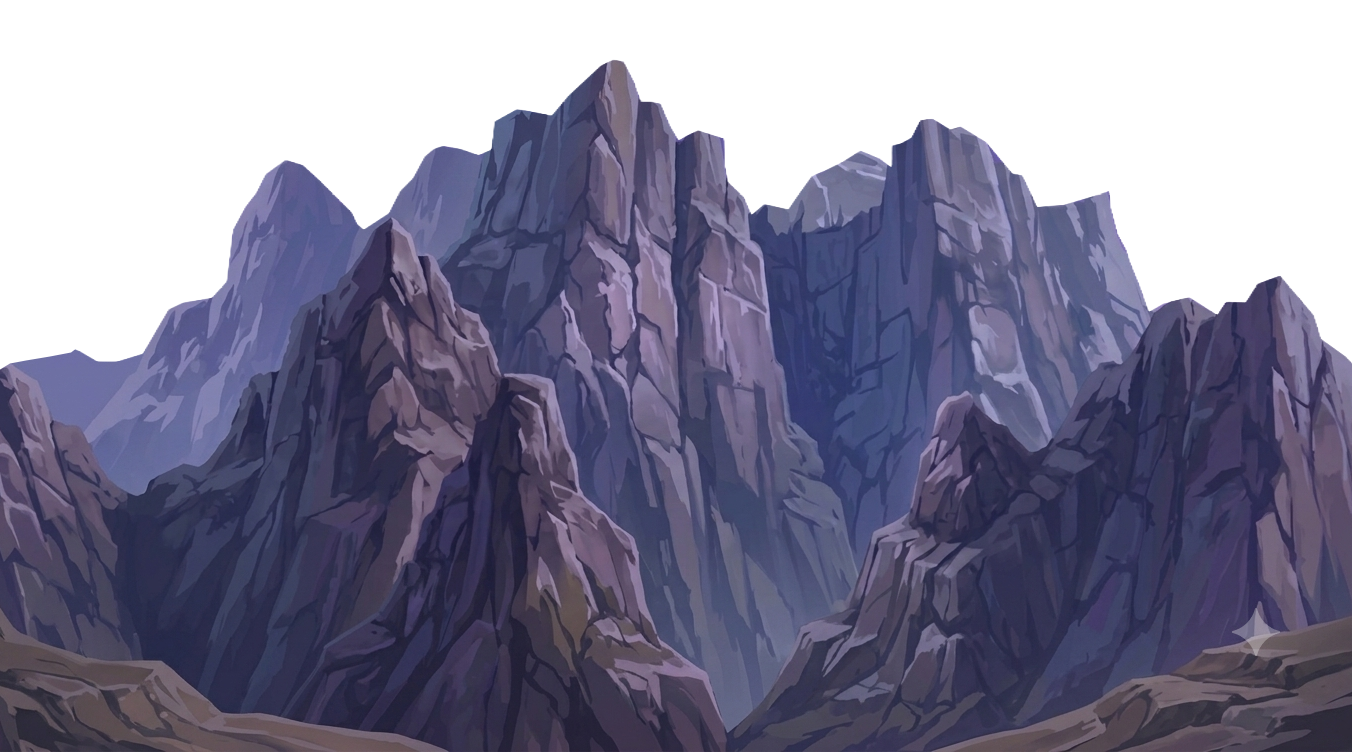
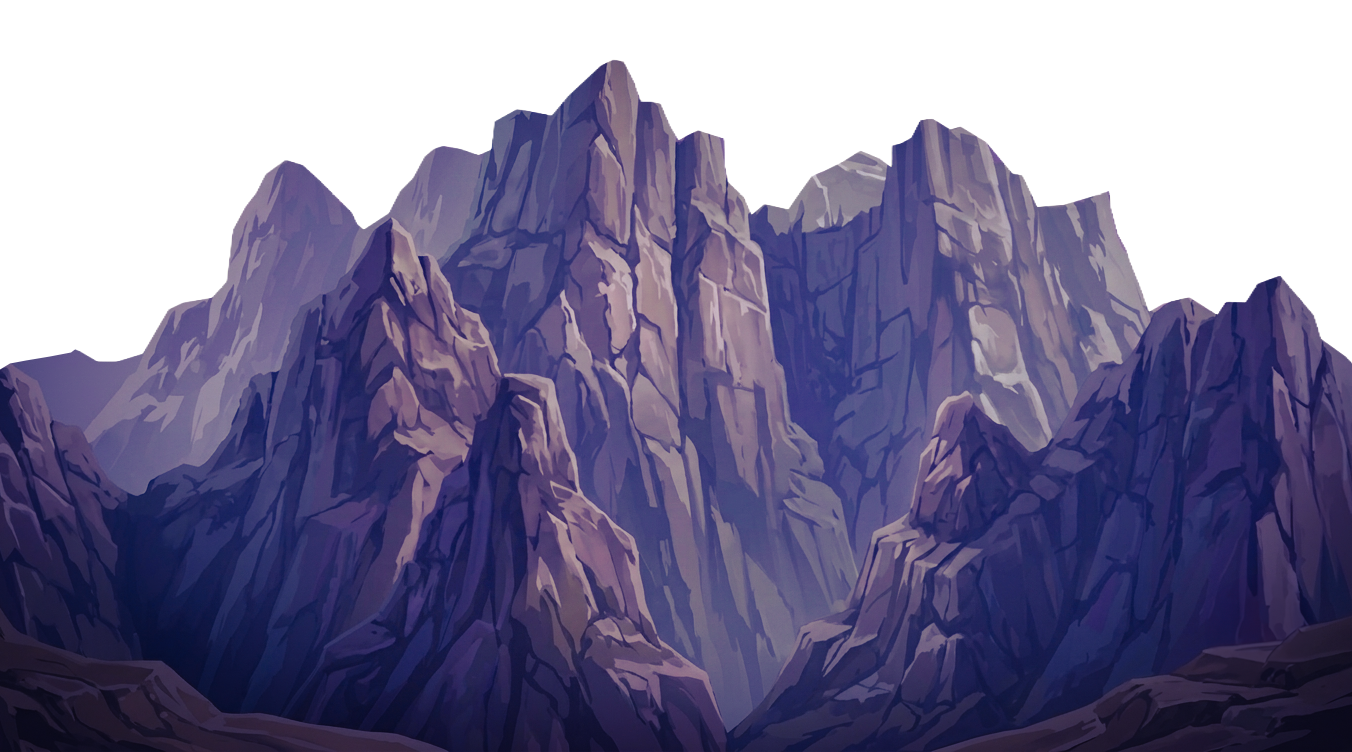
backup

Changed region(s): [[0.0, 0.367, 1.0, 1.0], [0.2175, 0.2447, 0.6524, 0.7646], [0.6524, 0.3976, 0.7766, 0.7035]]

diff --git a/Assets/Prefabs/Player/Scripts/PlayerHealth.cs b/Assets/Prefabs/Player/Scripts/PlayerHealth.cs
@@ -11,6 +11,15 @@ public class PlayerHealth : MonoBehaviour
     public float knockbackForce = 10f;
     public float knockbackDuration = 0.15f;
 
+    [Header("Guard Slide")]
+    [Tooltip("How far the player slides back when blocking an attack.")]
+    public float guardSlideForce = 7f;
+    [Tooltip("How long the guard slide lasts.")]
+    public float guardSlideDuration = 0.2f;
+    [Tooltip("Damage reduction while blocking (0 = no damage, 0.5 = half damage, 1 = full damage).")]
+    [Range(0f, 1f)]
+    public float blockDamageReduction = 0f;
+
     [Header("Flash Effect")]
     public SpriteRenderer spriteRenderer;
     public float flashDuration = 0.1f;
@@ -21,6 +30,7 @@ public class PlayerHealth : MonoBehaviour
 
     private Rigidbody2D rb;
     private Animator animator;
+    private PlayerState state;
     private bool isKnocked;
     private bool isDead;
 
@@ -29,6 +39,7 @@ public class PlayerHealth : MonoBehaviour
         currentHealth = maxHealth;
         rb            = GetComponent<Rigidbody2D>();
         animator      = GetComponentInChildren<Animator>();
+        state         = GetComponent<PlayerState>();
 
         if (spriteRenderer == null)
             spriteRenderer = GetComponentInChildren<SpriteRenderer>();
@@ -49,6 +60,36 @@ public class PlayerHealth : MonoBehaviour
         if (isKnocked) return;
         if (isDead) return;
 
+        // ── GUARD SLIDE: blocking any attack ──
+        if (state != null && (state.isBlocking || state.isCrouchBlocking))
+        {
+            // Reduced damage while blocking (default 0 = no damage)
+            int blockedDamage = Mathf.RoundToInt(damage * blockDamageReduction);
+            if (blockedDamage > 0)
+            {
+                currentHealth -= blockedDamage;
+                if (HealthUI.Instance != null)
+                    HealthUI.Instance.UpdateHealth(currentHealth, maxHealth);
+            }
+
+            // Slide backward away from the attacker
+            if (rb != null)
+                StartCoroutine(GuardSlide(hitDirection));
+
+            // Small camera shake on block (lighter than a real hit)
+            if (CameraShake.Instance != null)
+                CameraShake.Instance.Shake(0.08f, 0.1f);
+
+            // Block flash — white instead of red
+            StartCoroutine(BlockFlash());
+
+            if (currentHealth <= 0)
+                Die();
+
+            return; // Don't apply normal damage/knockback/hurt animation
+        }
+
+        // ── NORMAL HIT (not blocking) ──
         currentHealth -= damage;
         Debug.Log("Player Hit! Health: " + currentHealth);
 
@@ -74,25 +115,40 @@ public class PlayerHealth : MonoBehaviour
     {
         if (animator == null) return;
 
-        // Determine if hit came from above or below the chest
-        // hitDirection.y > 0 means enemy hit upward (player was hit from below/middle)
-        // hitDirection.y < 0 means hit came downward (upper body hit like Stalker laser)
-        // We also check the chest world Y as fallback
+        bool isUpperHit = hitDirection.y < 0f;
 
-        bool isUpperHit = hitDirection.y < 0f; // downward force = upper body hit
-
-        // If hitDirection is mostly horizontal (like Prowler leap),
-        // use ChestPoint Y to decide based on enemy position
         if (Mathf.Abs(hitDirection.y) < 0.3f && chestPoint != null)
-        {
-            // Horizontal hit — Prowler is ground level so it's always middle
             isUpperHit = false;
-        }
 
         if (isUpperHit)
             animator.SetTrigger("upperHurt");
         else
             animator.SetTrigger("middleHurt");
+    }
+
+    IEnumerator GuardSlide(Vector2 hitDirection)
+    {
+        isKnocked = true;
+
+        // Slide AWAY from the hit source (opposite of hit direction)
+        float slideDir = hitDirection.x >= 0f ? -1f : 1f;
+
+        rb.linearVelocity = new Vector2(slideDir * guardSlideForce, 0f);
+
+        float elapsed = 0f;
+        while (elapsed < guardSlideDuration)
+        {
+            // Decelerate smoothly over the slide duration
+            float t = elapsed / guardSlideDuration;
+            float speed = Mathf.Lerp(guardSlideForce, 0f, t);
+            rb.linearVelocity = new Vector2(slideDir * speed, rb.linearVelocity.y);
+
+            elapsed += Time.deltaTime;
+            yield return null;
+        }
+
+        rb.linearVelocity = new Vector2(0f, rb.linearVelocity.y);
+        isKnocked = false;
     }
 
     IEnumerator ApplyKnockback(Vector2 dir)
@@ -109,6 +165,14 @@ public class PlayerHealth : MonoBehaviour
         if (spriteRenderer == null) yield break;
         spriteRenderer.color = Color.red;
         yield return new WaitForSeconds(flashDuration);
+        spriteRenderer.color = Color.white;
+    }
+
+    IEnumerator BlockFlash()
+    {
+        if (spriteRenderer == null) yield break;
+        spriteRenderer.color = new Color(0.8f, 0.85f, 1f); // subtle cool white
+        yield return new WaitForSeconds(flashDuration * 0.7f);
         spriteRenderer.color = Color.white;
     }
 

diff --git a/Assets/Prefabs/Player/Scripts/PlayerCombat.cs b/Assets/Prefabs/Player/Scripts/PlayerCombat.cs
@@ -76,9 +76,18 @@ public class PlayerCombat : MonoBehaviour
             verticalAttackPressed = false;
             verticalAttackHeld    = false;
             blockHeld             = false;
+            state.isBlocking      = false;
+            state.isCrouchBlocking = false;
             state.isVerticalAttackHolding = false;
             if (animator != null) animator.speed = 1f;
         }
+    }
+
+    // Block state evaluated every frame (Update) for instant response,
+    // not in FixedUpdate which adds up to 20ms delay.
+    private void Update()
+    {
+        UpdateBlockState();
     }
 
     private void FixedUpdate()
@@ -90,18 +99,31 @@ public class PlayerCombat : MonoBehaviour
             state.isAttacking = st.IsName("Attack") || st.IsName("SitAttack") || state.isVerticalAttacking;
         }
 
-        // Standing block: G held, NOT crouching
-        state.isBlocking = blockHeld && state.isGrounded && !state.isAttacking
-                           && !state.isDashing && !state.crouchHeld;
-
-        // Crouch block: G + C held
-        state.isCrouchBlocking = blockHeld && state.crouchHeld && state.isGrounded
-                                  && !state.isAttacking && !state.isDashing;
+        // Block state also refreshed here for physics sync
+        UpdateBlockState();
 
         HandleAttack();
 
         attackPressed         = false;
         verticalAttackPressed = false;
+    }
+
+    private void UpdateBlockState()
+    {
+        // Standing block: G held, NOT crouching
+        // isDashing check removed — OnBlockPerformed cancels dash before we get here
+        state.isBlocking = blockHeld && state.isGrounded
+                           && !state.crouchHeld;
+
+        // Crouch block: G + C held
+        state.isCrouchBlocking = blockHeld && state.crouchHeld && state.isGrounded;
+
+        // Block overrides attack state
+        if (state.isBlocking || state.isCrouchBlocking)
+        {
+            state.isAttacking = false;
+            state.isVerticalAttacking = false;
+        }
     }
 
     private void HandleAttack()
@@ -159,8 +181,31 @@ public class PlayerCombat : MonoBehaviour
         }
     }
 
-    private void OnBlockPerformed(InputAction.CallbackContext ctx) => blockHeld = true;
-    private void OnBlockCanceled(InputAction.CallbackContext ctx)  => blockHeld = false;
+    private void OnBlockPerformed(InputAction.CallbackContext ctx)
+    {
+        blockHeld = true;
+
+        // Cancel dash immediately when block is pressed
+        if (state.isDashing)
+            state.isDashing = false;
+
+        // Cancel any in-progress attack so block takes priority
+        if (state.isAttacking && animator != null)
+        {
+            animator.ResetTrigger(attackTrigger);
+            animator.ResetTrigger(verticalAttackTrigger);
+        }
+
+        // Set blocking immediately — don't wait for next Update/FixedUpdate
+        UpdateBlockState();
+    }
+
+    private void OnBlockCanceled(InputAction.CallbackContext ctx)
+    {
+        blockHeld = false;
+        state.isBlocking = false;
+        state.isCrouchBlocking = false;
+    }
 
     private void OnVerticalAttack(InputAction.CallbackContext ctx)
     {

diff --git a/Assets/Prefabs/Player/Scripts/ParallaxLayer.cs b/Assets/Prefabs/Player/Scripts/ParallaxLayer.cs
@@ -5,13 +5,19 @@ public class ParallaxLayer : MonoBehaviour
     [SerializeField] private Transform cameraTransform;
     [SerializeField] private float parallaxMultiplier = 0.5f;
 
+    [Tooltip("Smoothing to prevent jitter at camera boundaries. Higher = smoother but laggier. 0 = no smoothing.")]
+    [Range(0f, 0.95f)]
+    [SerializeField] private float smoothing = 0.85f;
+
     private float startX;
     private float cameraStartX;
+    private float currentX;
 
     private void Start()
     {
         startX = transform.position.x;
         cameraStartX = cameraTransform.position.x;
+        currentX = startX;
     }
 
     private void LateUpdate()
@@ -19,8 +25,11 @@ public class ParallaxLayer : MonoBehaviour
         float cameraDeltaX = cameraTransform.position.x - cameraStartX;
         float targetX = startX + cameraDeltaX * parallaxMultiplier;
 
+        // Smooth out micro-jitter from camera confiner clamping
+        currentX = Mathf.Lerp(targetX, currentX, smoothing);
+
         Vector3 pos = transform.position;
-        pos.x = targetX;
+        pos.x = currentX;
         transform.position = pos;
     }
 }
